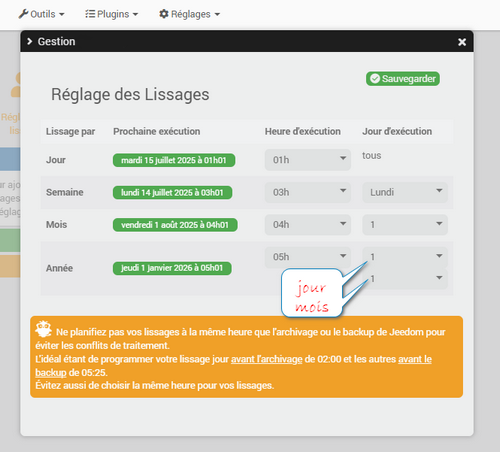
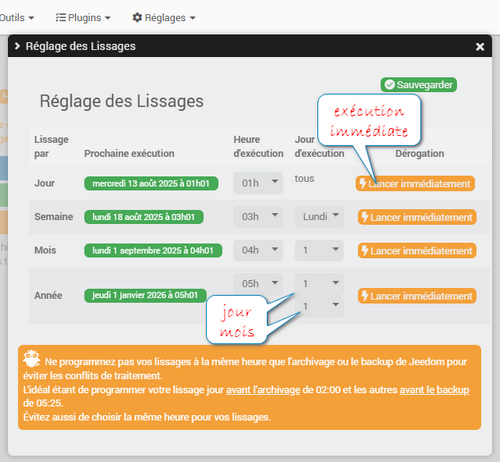
1.3

diff --git a/docs/faq.md b/docs/faq.md
@@ -77,46 +77,44 @@ Généralement non. Vous aurez sans doute déjà un lissage par mois qui fera l'
 
 Quand l'utiliser ?  
 Pour les commandes sans purge ou avec une purge > 1 an.  
-Lors de la première installation du plugin, pour optimiser les données archivées depuis longtemps.
+Lors de la première installation du plugin, pour lisser les données archivées depuis longtemps.
 
 En effet, même s'il est prévu pour se lancer une fois par an, vous pouvez tout à fait le lancer plusieurs fois en changeant son heure/jour/mois d'exécution dans **Réglage des lissages** pour traiter par plages d'1 an à la fois vos anciennes données.
 
 **Exemple :**  
-Vous avez une commande *85 Téléinfo-indexHP* lissée en mode maximum par Jeedom mais sans purge avec 4 ans de données dans la table historyArch (admettons qu'on a 4 années complètes de données dont 6 mois sur l'année en cours = 1 valeur/heure → ~35 000 points ).  
+Vous avez une commande *85 Téléinfo-indexHP* lissée en mode **maximum** par Jeedom mais __sans purge__ avec 4 ans de données dans la table historyArch (admettons qu'on a 4 années complètes de données dont 6 mois sur l'année en cours = 1 valeur/heure → ~35 000 points ).  
 Objectif : Réduire le nombre de points tout en conservant l’essentiel de l'information.
 
-- On est samedi 19 juillet 2025, il est 10h30 et vous venez juste d'installer le plugin.
+- Vous venez juste d'installer le plugin.
 
-1. il est 10h30
+1.  
 - Via la **Gestion des commandes** vous ajoutez la commande 85 à HistoLisse.
-- Dans le réglage des lissages vous enregistrez pour Année : **11h00, jour 19, mois 7** donc aujourd'hui à la prochaine heure.
-- Dans le réglage de la commande **85** vous activez le lissage Année en **mode maximum** (pour garder l'index le plus élevé par intervalle) avec un **arrondi à 0** (les index n'ont pas de décimale) et un **intervalle à 360min** (pour ne garder qu'une valeur toutes les 6 heures, c'est suffisant pour un index après 1 an) et vous indiquez pour le **Jour Fin -1461** (1461 jours en arrière = 4 ans : valeur maximale autorisée) le jour début va se règler sur -1826 (5 ans) et les dates vous indiquent un traitement du 19 juillet 2020 0h00 au 19 juillet 2021 23h59.
-- A 11h01 ce premier lissage par année est fait pour la commande 85 (et autres si configurées) vous pouvez vérifier dans Jeedom (graphique ou historique) que vous n'avez plus qu'une valeur toutes les 6 heures pour les enregistrements **avant** le 19 juillet 2021 23h59.
+- Dans le réglage des lissages vous enregistrez pour Année : **06h00, jour 1, mois 1** donc exécution le 1er janvier de chaque année à 6h.
+- Dans le réglage de la commande **85** vous activez (de préférence uniquement) le lissage Année en **mode maximum** (pour garder l'index le plus élevé par intervalle) avec un **arrondi à 0** (les index n'ont pas de décimale) et un **intervalle à 360min** (pour ne garder qu'une valeur toutes les 6 heures, c'est suffisant pour un index après 1 an) et vous indiquez pour le **Jour Fin -1461** (1461 jours en arrière = 4 ans : valeur maximale autorisée) le jour début va se règler sur -1826 (5 ans) et vous sauvegardez.
+- Vous cliquez sur le bouton "Lancer ces lissages immédiatement". Ce premier lissage par année est fait pour la commande 85 vous pouvez vérifier dans Jeedom (graphique ou historique) que vous n'avez plus qu'une valeur toutes les 6 heures pour les enregistrements **entre 5 et 4 ans avant** aujourd'hui.
 
-2. il est 11h02
-- Dans le réglage des lissages vous changez l'heure pour Année à 12h00.
-- Dans le réglage de la commande **85** vous changez le lissage Année en indiquant pour le **Jour Fin -1095** (3 ans) et les dates vous indiquent désormais un traitement du 20 juillet 2021 0h00 au 20 juillet 2022 23h59.
-- A 12h01 ce second lissage par année est fait.
+2.  
+- Dans le réglage de la commande **85** vous changez le lissage Année en indiquant pour le **Jour Fin -1095** (3 ans).
+- Vous cliquez sur le bouton "Lancer ces lissages immédiatement". Ce second lissage par année est fait pour la commande 85 pour les enregistrements **entre 4 et 3 ans avant** aujourd'hui.
 
-3. il est 12h02
-- Dans le réglage des lissages vous changez l'heure pour Année à 13h00.
-- Dans le réglage de la commande **85** vous changez le lissage Année en indiquant pour le **Jour Fin -729** (2 ans) et les dates vous indiquent désormais un traitement du 21 juillet 2022 0h00 au 21 juillet 2023 23h59.
-- A 13h01 ce 3ème lissage est fait.
+3.  
+- Dans le réglage de la commande **85** vous changez le lissage Année en indiquant pour le **Jour Fin -729** (2 ans).
+- Vous cliquez sur le bouton "Lancer ces lissages immédiatement". Ce 3ème lissage par année est fait pour la commande 85 pour les enregistrements **entre 3 et 2 ans avant** aujourd'hui.
 
-4. il est 13h02
-- Dans le réglage des lissages vous changez l'heure pour Année à 14h00.
-- Dans le réglage de la commande **85** vous changez le lissage Année en indiquant pour le **Jour Fin -363** (2 ans) et les dates vous indiquent désormais un traitement du 22 juillet 2023 0h00 au 21 juillet 2024 23h59.
-- A 14h01 ce 4ème lissage est fait.
+4.  
+- Dans le réglage de la commande **85** vous changez le lissage Année en indiquant pour le **Jour Fin -363** (1 ans).
+- Vous cliquez sur le bouton "Lancer ces lissages immédiatement". Ce 4ème lissage par année est fait pour la commande 85 pour les enregistrements **entre 2 et 1 an avant** aujourd'hui.
 
-5. il est 14h02
-- Dans le réglage des lissages vous changez l'heure pour Année à 15h00.
-- Dans le réglage de la commande **85** vous changez le lissage Année en indiquant pour le **Jour Fin -200** (pour finir au 31/12/24) et les dates vous indiquent désormais un traitement du 1 janvier 2024 0h00 au 31 décembre 2024 23h59. *(NB: Les enregistrements entre 1 janvier 2024 et le 21 juillet 2024 seront vérifiés en doublon de l'étape 4 mais ce n'est pas un problème.)*
-- A 15h01 ce 5ème lissage est fait.
+5.  
+- Vérifiez le numéro du jour d'aujourd'hui, par exemple si nous sommes le 1er juillet 2025 c'est le 182ème jour de l'année.
+- Dans le réglage de la commande **85** vous changez le lissage Année en indiquant pour le **Jour Fin -182** (pour finir au 31/12/24). *(NB: Les enregistrements entre 1 janvier 2024 et le 1 juillet 2024 seront vérifiés en doublon de l'étape 4 mais ce n'est pas un problème.)*
+- Vous cliquez sur le bouton "Lancer ces lissages immédiatement". Ce 5ème lissage par année est fait pour la commande 85 pour les enregistrements jusqu'au 31 décembre dernier.
 
-6. il est 15h02  
-Voilà ! Vous avez nettoyé votre commande 85 (et d'autres) sur la période du 19 juillet 2020 au 31 décembre 2024. Les ~35 000 enregistrements sur 4 ans (dont 6 mois sur l'année en cours) sont devenus 9424 (73% de réduction) répartis en : 5104 (1 toutes les 6h) sur 3,5 ans et 4320 (1 par heure) pour les 6 mois de l'année en cours non traitée. Ces lissages ont divisé par 4 le nombre d'enregistrements sans perte des informations utiles.
-- Dans le réglage des lissages vous choisissez maintenant votre vraie date pour le lissage Année : **05h00, jour 1, mois 1** soit un prochain lissage le 1er janvier 2026 à 5h du matin.
+6.  
+Voilà ! Vous avez nettoyé votre commande 85 sur la période du 1er juillet 2020 au 31 décembre 2024. Les ~35 000 enregistrements sur 4 ans (dont 6 mois sur l'année en cours) sont devenus 9424 (73% de réduction) répartis en : 5104 (1 toutes les 6h) sur 3,5 ans et 4320 (1 par heure) pour les 6 mois de l'année en cours non traitée. Ces lissages ont divisé par 4 le nombre d'enregistrements sans perte des informations utiles.
 - Dans le réglage de la commande **85** vous changez le lissage Année en indiquant pour le **Jour Fin -1** et les dates vous indiquent désormais un traitement (qui aura lieu le 1er janvier 2026) du 31 décembre 2024 0h00 au 31 décembre 2025 23h59.
+
+Si vous voulez traiter plusieurs commandes à la fois, alors commencez par régler le lissage année pour chaque commande puis aller dans **Réglage des lissages** et cliquez sur le bouton "Lancer immédiatement" en face de Année. Le lissage par année se lancera pour toutes les commandes réglées.
 
 ---
 
@@ -128,13 +126,14 @@ Par exemple si le délai avant purge = 7 jours → les lissages Semaine et suiva
 
 ### Combien de temps dure un lissage ?
 Un certain temps... Difficile de donner une règle, tout dépend de votre matériel, de l'occupation de Jeedom à ce moment là etc...  
-Sur un "vieux" RPI 3b+ avec 2Go de mémoire, il faut compter un peu moins de 3 secondes pour traiter 10 000 enregistrements sur une vingtaine de commandes.  
+Sur un "vieux" RPI 3b+ avec 2Go de mémoire, il faut compter un peu moins de 3 secondes pour traiter 10 000 enregistrements réparties sur une vingtaine de commandes.  Un RPI 4 avec 8Go peut traiter 100 000 enregistrements à la seconde.
 En général, le lissage de chaque heure va durer entre 1 et 2 dixièmes de secondes par commande à traiter suivant son volume de données (0 à 1000). Un lissage Mois qui traite 100 000 lignes dure moins de 20 secondes.  
 
 ---
 
 ### J'ai eu une panne de mon Jeedom pendant 2h ce jour, puis-je rattrapper les lissages Heure non faits ?
-Il n'est pas possible de rattraper ce qui n'a pas été fait. C'est pourquoi il est très important de configurer des lissages en cascade en ajoutant par exemple un lissage par jour en plus du lissage par heure et éventuellement un lissage par semaine même si c'est avec les *mêmes paramètres* (mode, arrondi, intervalle) afin d'être sûr que l'information soit au moins traitée une fois en cas de panne, mieux vaut rester attentif quand vous modifez les rélages de la commande !
+Il n'est pas possible de rattraper ce qui n'a pas été fait. C'est pourquoi il est très important de configurer des lissages en cascade en ajoutant par exemple un lissage par jour en plus du lissage par heure et éventuellement un lissage par semaine même si c'est avec les *mêmes paramètres* (mode, arrondi, intervalle) afin d'être sûr que l'information soit au moins traitée une fois en cas de panne, mieux vaut rester attentif quand vous modifez les réglages de la commande !
+En dehors du lissage heure, si vous vous rendez compte rapidement qu'un lissage n'a pas eu lieu, exemple celui du jour si on est toujours le lendemain, vous pouvez aller dans **Réglage des lissages** et cliquez sur le bouton "Lancer immédiatement" en face de Jour. Le lissage par jour se lancera pour toutes les commandes réglées de la veille.
 
 ---
 

diff --git a/docs/details.md b/docs/details.md
@@ -16,7 +16,7 @@ Il y a aussi la possibilité d'ouvrir un nouveau sujet sur la section du forum J
 Jetez un oeil sur l'onglet résumé de la page **Diagnostic** pour vérifier votre configuration et les commandes gourmandes.  
 Vous retrouvez ici l'état des tables et leur évolution dans le temps. Ainsi qu'un résumé Top15 des commandes occupants le plus de place dans les tables history et historyArch.
 
-Quoi que vous fassiez, il y aura toujours des commandes avec un "volume élevé", c'est normal puisque ce volume est calculé par rapport à la moyenne générale.
+**Quoi que vous fassiez**, il y aura toujours des commandes avec un "volume élevé", c'est normal puisque ce volume est calculé par rapport à la moyenne générale.
 
 Comme partout dans le plugin les tables sont triables en cliquant sur les en-têtes de colonnes.
   
@@ -29,6 +29,9 @@ Réglez les horaires de traitement via Réglage des Lissages, exemples dans la [
 À chaque sauvegarde, les dates de prochaine exécution sont mises à jour afin de contrôler que cela correspond à ce que vous voulez.  
 Prenez en compte votre configuration Jeedom pour éviter les conflits de traitement et les lenteurs.
 
+Le bouton de dérogation permet de lancer un lissage général en dehors des horaires prévus.  
+Par exemple lancer le lissage semaine en milieu de semaine, qui traitera toutes les commandes qui ont un réglage activé pour la semaine. La date retenue pour le calcul des plages est celle du lancement immédiat : si vous lancez le mercredi, les commandes réglées à -1 traiteront de la veille, mardi, au mardi précédent.
+
 ## gestion
 ![gestion](img/gestion.png)
 Commencez par ajouter des commandes, via la **Gestion**, qui seront désormais gérées par le plugin (sauf la purge qui reste gérée par Jeedom)
@@ -40,7 +43,7 @@ Le lien vers la fenêtre de configuration Jeedom ne permet que de modifier la pu
 ![réglage](img/regl.png)
 Ouvrez le **Réglage des commandes** pour configurer chaque commande.
 
-### type
+### type de réglages
 ![cmdr](img/cmdr.png)
 Les commandes de type numérique ont plus de possibilités.
 Retrouvez pour chaque commande ses statistiques dans les 2 tables, les infos de base comme le délai avant la purge. La dernière valeur et sa date, en voir plus avec les 20 dernières valeurs dans chacune des tables. Un menu de navigation entre les commandes.
@@ -65,6 +68,10 @@ Un exemple **complet** de lissage par Année est détaillé dans la [FAQ](faq.md
 Les commandes de type binaire et string sont limitées sur les modes.  
 Valeur la plus proche signifie au plus proche de l'intervalle : s'il est de 5 min on gardera les points à h00 h05 h10... c'est la donnée historisée le plus proche de cette minute qui sera donc conservée.  
 Sauf exception, laissez Jeedom gérer ce type de commande, il le fait très bien.
+
+![cmdb](img/cmdl.png)
+Par dérogation, vous pouvez lancer immédiatement tous les lissages activés sur la page et pour cette commande uniquement. Cela permet, par exemple, de traiter un historique ancien dans la base en lançant avec l'année uniquement à des jours de fin différents.  
+NB: Ce n'est pas possible entre hh:58 et hh:01 afin de ne pas se percuter avec les lissages réguliers.
 
 ⚠ *Vous aurez toujours des commandes en rouge ou en orange parce qu'il y a forcément des commandes avec plus de données que la moyenne. Cela reste une indication pour comprende quelle commande sont à traiter en priorité.*
 

diff --git a/CHANGELOG.md b/CHANGELOG.md
@@ -1,11 +1,12 @@
 # CHANGELOG
 
-## [1.2] - 2025-07-25
+## [1.3] - 2025-08-12
 
 ### Ajouts
-- diverses optimisations et améliorations pages gestion, diagnostic et internes
-
-
+- dans **Réglage des lissages** ajout d'un bouton de dérogation "Lancer immédiatement" pour chaque période qui permet de lancer un lissage général en dehors des horaires prévus et pour toutes les commandes qui ont un réglage activé pour cette période.
+- dans **Réglage des commandes** ajout d'un bouton de dérogation "Lancer immédiatement tous ces lissages" qui permet de lancer tous les lissages activés et pour cette commande uniquement, en dehors des horaires prévus.
+- correction d'un bug d'url trop longue qui empêchait l'accès aux réglages en cas de nombreuses commandes gérées (+ de 100).
+- diverses corrections et optimisations mineures.
 
 ### Ajouts précédents
 - page principale : afficher l'état des tables en temps réel, le dernier lissage et les Tops commandes (cache)
